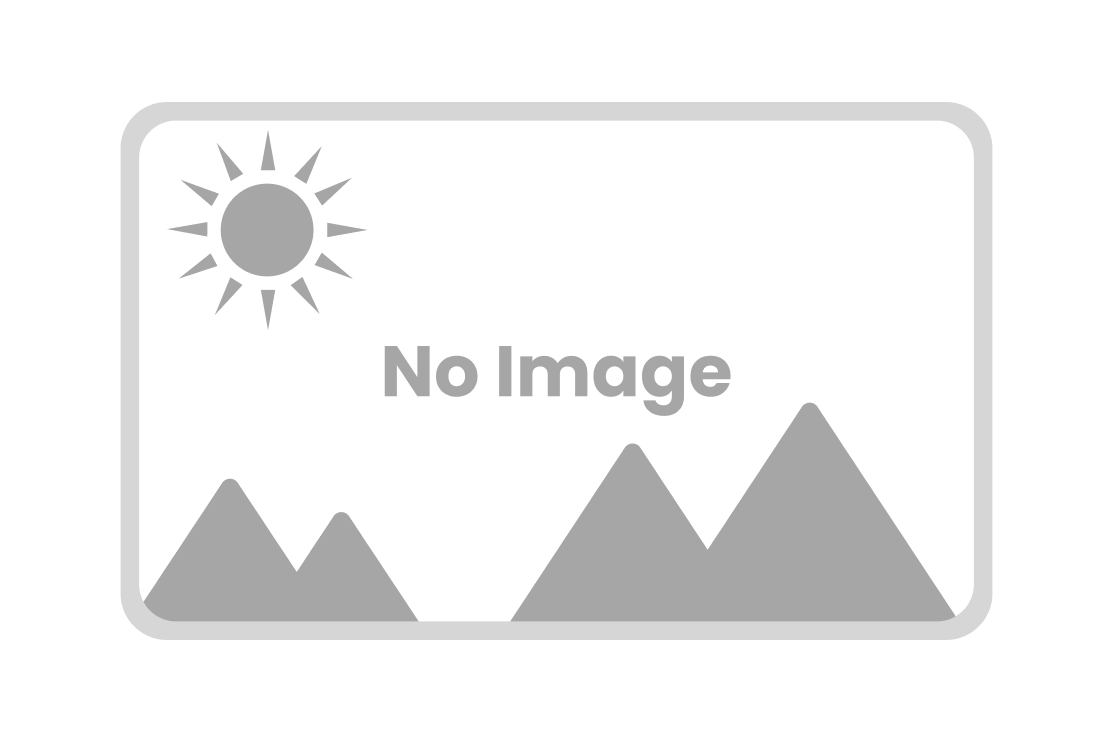
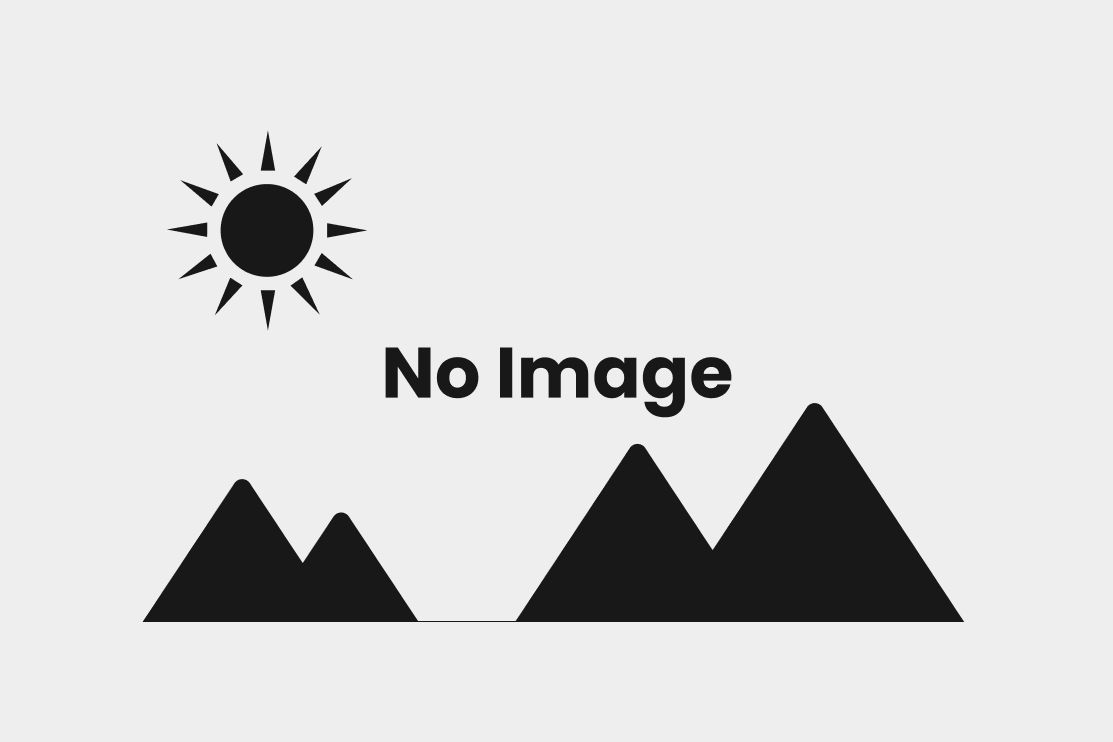
Adds placeholder images

diff --git a/src/js/ui/dom/profile/profileAuctions.js b/src/js/ui/dom/profile/profileAuctions.js
@@ -123,7 +123,10 @@ export async function buildListingCardsProfile() {
 
     const listingImage = createHtmlElement({
       element: 'img',
-      src: data.media && data.media.length > 0 ? data.media[0].url : '',
+      src:
+        data.media && data.media.length > 0
+          ? data.media[0].url
+          : '/images/placeholder-image.png',
       alt: data.media && data.media.length > 0 ? data.media[0].alt : '',
       className: ['object-cover', 'w-full', 'h-full'],
     });

diff --git a/src/js/ui/dom/home/listingsCardsHome.js b/src/js/ui/dom/home/listingsCardsHome.js
@@ -105,7 +105,10 @@ export function buildListingCards(data) {
 
   const listingImage = createHtmlElement({
     element: 'img',
-    src: data.media && data.media.length > 0 ? data.media[0].url : '',
+    src:
+      data.media && data.media.length > 0
+        ? data.media[0].url
+        : '/images/placeholder-image.png',
     alt: data.media && data.media.length > 0 ? data.media[0].alt : '',
     className: ['object-cover', 'w-full', 'h-full'],
   });

diff --git a/src/js/ui/dom/listing/carousel.js b/src/js/ui/dom/listing/carousel.js
@@ -6,7 +6,11 @@ export async function carousel(data) {
   const MAX_SLIDES = 6;
 
   const listingMedia = data.media.slice(0, MAX_SLIDES);
-  const media = listingMedia;
+  // const media = listingMedia;
+  const media =
+    listingMedia.length > 0
+      ? listingMedia
+      : [{ url: '/images/placeholder-image.png' }];
 
   console.log('MEDIA in carousel', listingMedia);
 
